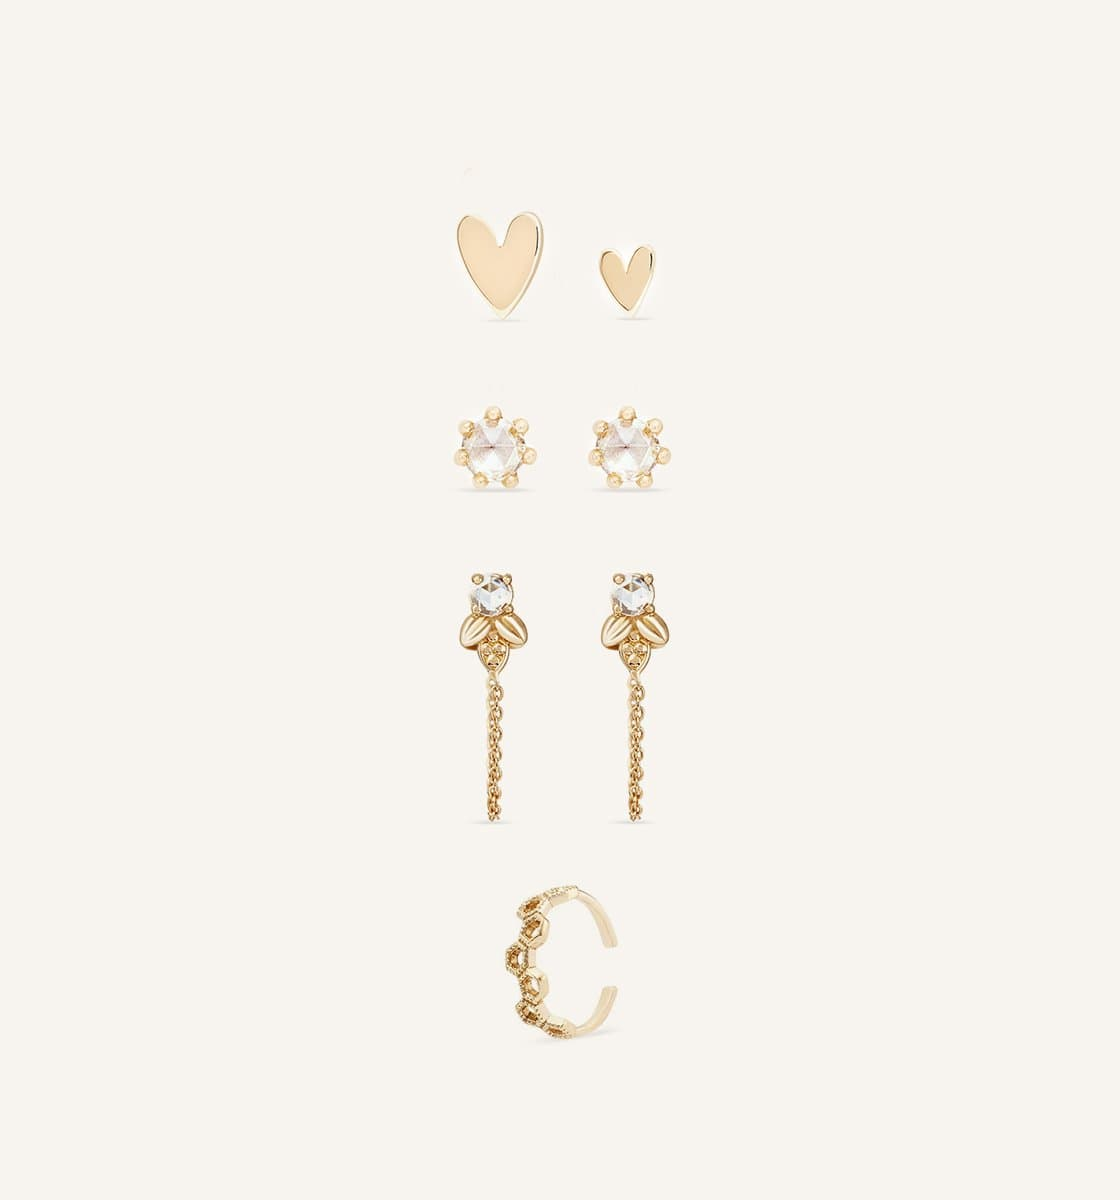
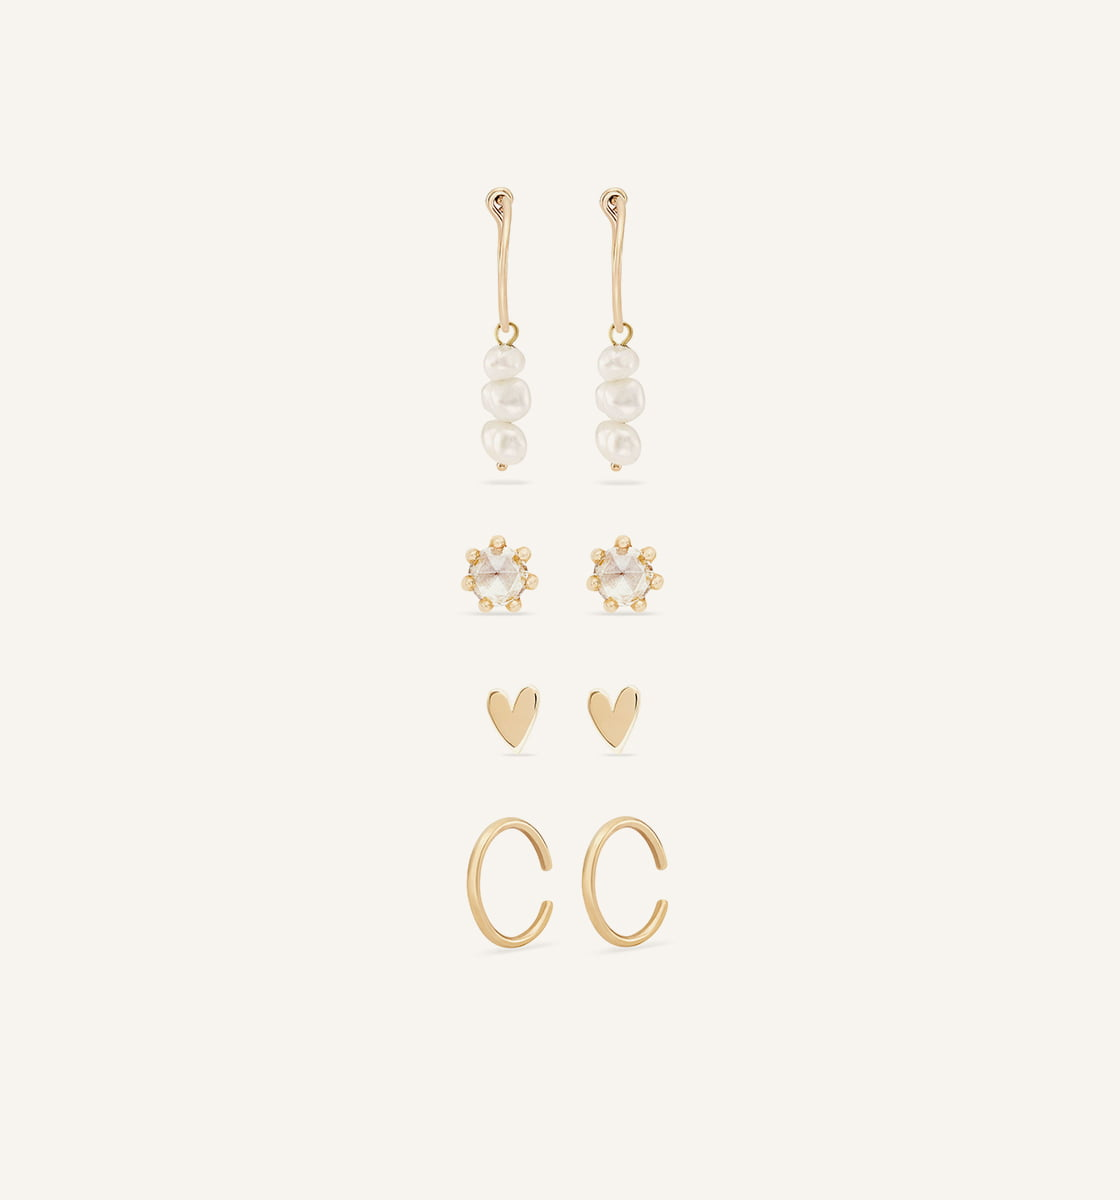
updates homepage images, adds product packaging to all product pages

Changed region(s): [[0.4062, 0.1542, 0.5938, 0.8633]]

diff --git a/src/components/BelovedLinks.js b/src/components/BelovedLinks.js
@@ -1,5 +1,5 @@
 import { graphql, Link, useStaticQuery } from 'gatsby'
-import { GatsbyImage } from "gatsby-plugin-image";
+import { GatsbyImage } from 'gatsby-plugin-image'
 import React from 'react'
 import { Box, Button, Flex, Grid, Heading } from 'theme-ui'
 
@@ -15,7 +15,7 @@ const BigLink = ({ fluid, title, buttonLabel, to, alt }) => (
     </Heading>
     <Grid>
       <Box sx={{ gridRow: '1 / -1', gridColumn: '1 / -1' }}>
-        <GatsbyImage image={fluid} alt="" />
+        <GatsbyImage image={fluid} alt={alt} />
       </Box>
       <Flex
         p={3}
@@ -36,19 +36,22 @@ const BigLink = ({ fluid, title, buttonLabel, to, alt }) => (
 )
 
 const BelovedLinks = () => {
-  const data = useStaticQuery(graphql`{
-  engagementImage: file(relativePath: {eq: "beloved/engagement-rings.jpg"}) {
-    childImageSharp {
-      gatsbyImageData(width: 800, layout: CONSTRAINED)
+  const data = useStaticQuery(graphql`
+    {
+      engagementImage: file(
+        relativePath: { eq: "beloved/engagement-rings.jpg" }
+      ) {
+        childImageSharp {
+          gatsbyImageData(width: 800, layout: CONSTRAINED)
+        }
+      }
+      weddingImage: file(relativePath: { eq: "beloved/wedding-bands.jpg" }) {
+        childImageSharp {
+          gatsbyImageData(width: 800, layout: CONSTRAINED)
+        }
+      }
     }
-  }
-  weddingImage: file(relativePath: {eq: "beloved/wedding-bands.jpg"}) {
-    childImageSharp {
-      gatsbyImageData(width: 800, layout: CONSTRAINED)
-    }
-  }
-}
-`)
+  `)
 
   return (
     <Box variant="sectionWrap">
@@ -63,21 +66,21 @@ const BelovedLinks = () => {
       >
         <BigLink
           title="ONE OF A KIND ENGAGEMENT RINGS"
-          to="/shop/wedding/engagement"
+          to="/collections/one-of-a-kind-engagement-rings"
           buttonLabel="Shop one of a king rings"
-          alt="embracing couple"
+          alt="couple and rings"
           fluid={data.engagementImage.childImageSharp.gatsbyImageData}
         />
         <BigLink
           title="Wedding Bands"
-          to="/shop/wedding/engagement"
+          to="/collections/wedding-bands"
           buttonLabel="Shop All Wedding Bands"
-          alt="embracing couple"
+          alt="woman smiling with rings"
           fluid={data.weddingImage.childImageSharp.gatsbyImageData}
         />
       </Grid>
     </Box>
-  );
+  )
 }
 
 export default BelovedLinks

diff --git a/src/components/product/ProductImageGallery.js b/src/components/product/ProductImageGallery.js
@@ -9,7 +9,7 @@ import { getShopifyImage } from '../../lib/get-shopify-image'
 const GalleryImage = ({ image }) => {
   const imageData = getShopifyImage({ image, width: 900 })
 
-  return <GatsbyImage image={imageData} alt={image.altText} />
+  return <GatsbyImage image={imageData} alt={image.altText || ''} />
 }
 
 const ProductImageGallery = ({ images }) => {
@@ -18,12 +18,33 @@ const ProductImageGallery = ({ images }) => {
     initialPage: 0,
   })
 
+  // add packaging images to all image galleries
+  const imagesWithPackaging = [
+    ...images,
+    {
+      originalSrc:
+        'https://cdn.shopify.com/s/files/1/0685/0359/files/packaging-4.jpg?v=1620925677',
+      height: 3000,
+      width: 3000,
+      altText: 'packaging',
+      id: 'packaging-id-17757575234566',
+    },
+    {
+      originalSrc:
+        'https://cdn.shopify.com/s/files/1/0685/0359/files/packaging-9.jpg?v=1620925676',
+      height: 3000,
+      width: 3000,
+      altText: 'packaging alternate',
+      id: 'packaging-alt-id-1234566',
+    },
+  ]
+
   return (
     <>
       <AnimatePresence>
         {isOpen && (
           <FullscreenGallery
-            images={images}
+            images={imagesWithPackaging}
             isOpen={isOpen}
             initialPage={initialPage}
             onClose={() => setGalleryState({ isOpen: false, initialPage: 0 })}
@@ -32,13 +53,13 @@ const ProductImageGallery = ({ images }) => {
       </AnimatePresence>
       <Box sx={{ display: ['block', 'none', 'none'], width: '100vw' }} mx={-5}>
         <MobileGallery
-          images={images}
+          images={imagesWithPackaging}
           onImageClick={i => setGalleryState({ isOpen: true, initialPage: i })}
         />
       </Box>
       <Flex>
         <Box sx={{ display: ['none', 'block', 'block'] }}>
-          {images.map((image, i) => (
+          {imagesWithPackaging.map((image, i) => (
             <Button
               type="button"
               variant="unset"

diff --git a/src/components/InstagramFeed.js b/src/components/InstagramFeed.js
@@ -9,8 +9,6 @@ const instagramURL =
 
 const InstagramFeed = () => {
   const { data, error } = useSWR(instagramURL, fetcher)
-  console.log(data)
-
   if (error) return null
 
   if (data) {
@@ -36,7 +34,11 @@ const InstagramFeed = () => {
           {data.slice(0, 12).map(post => {
             if (['CAROUSEL_ALBUM', 'IMAGE'].includes(post.media_type))
               return (
-                <Link href={post.permalink} target="_blank">
+                <Link
+                  href={post.permalink}
+                  target="_blank"
+                  key={`post-${post.permalink}-image`}
+                >
                   <AspectImage
                     key={post.media_url}
                     ratio={1}
@@ -47,7 +49,11 @@ const InstagramFeed = () => {
               )
             if (post.media_type === 'VIDEO')
               return (
-                <Link href={post.permalink} target="_blank">
+                <Link
+                  href={post.permalink}
+                  target="_blank"
+                  key={`post-${post.permalink}-image`}
+                >
                   <AspectImage
                     key={post.media_url}
                     as="video"

diff --git a/src/components/SearchProduct.js b/src/components/SearchProduct.js
@@ -1,10 +1,13 @@
 import React, { useContext } from 'react'
 import { CurrencyContext } from '../contexts/CurrencyContext'
+import { useProductTitle } from './ProductTitle'
 import ProductListItem from './product/ListItem'
 
 const SearchProduct = ({ product, images }) => {
   const { currencyCode } = useContext(CurrencyContext)
   const [firstImage, secondImage] = images
+
+  const title = useProductTitle(product.title)
 
   const hasRange = product.presentmentPriceRanges.edges.find(
     ({ node }) => node.maxVariantPrice.amount !== node.minVariantPrice.amount
@@ -16,7 +19,7 @@ const SearchProduct = ({ product, images }) => {
 
   return (
     <ProductListItem
-      title={product.title}
+      title={title}
       to={`/products/${product.handle}`}
       firstImage={firstImage}
       secondImage={secondImage}

diff --git a/src/components/Announcements.js b/src/components/Announcements.js
@@ -18,7 +18,7 @@ const Announcement = ({ text, to, isVisible }) =>
         variant="caps"
       >
         <Link
-          as={GatsbyLink}
+          as={to ? GatsbyLink : 'span'}
           color="inherit"
           to={to}
           sx={{ textDecoration: 'none' }}
@@ -31,8 +31,11 @@ const Announcement = ({ text, to, isVisible }) =>
 
 Announcement.propTypes = {
   text: PropTypes.string.isRequired,
-  to: PropTypes.string.isRequired,
+  to: PropTypes.string,
   isVisible: PropTypes.bool.isRequired,
+}
+Announcement.defaultProps = {
+  to: '',
 }
 
 const Announcements = () => {

diff --git a/src/components/CollectionSlider.js b/src/components/CollectionSlider.js
@@ -6,7 +6,7 @@ import { FiChevronLeft, FiChevronRight } from 'react-icons/fi'
 import CollectionSlide from './CollectionSlide'
 import { useSlider } from '../lib/useSliderConstraint'
 
-const AnimatedGrid = motion.custom(Grid)
+const AnimatedGrid = motion(Grid)
 
 const CollectionSlider = ({ title, subtitle, slides }) => {
   const ref = useRef(null)

diff --git a/src/components/seo.js b/src/components/seo.js
@@ -80,13 +80,14 @@ SEO.defaultProps = {
   lang: `en`,
   meta: [],
   description: ``,
+  title: '',
 }
 
 SEO.propTypes = {
   description: PropTypes.string,
   lang: PropTypes.string,
   meta: PropTypes.arrayOf(PropTypes.object),
-  title: PropTypes.string.isRequired,
+  title: PropTypes.string,
 }
 
 export default SEO

diff --git a/src/components/CollectionSlide.js b/src/components/CollectionSlide.js
@@ -10,7 +10,7 @@ const CollectionSlide = ({ title, to, buttonLabel, image }) => {
   return (
     <Box pr={4}>
       <Box as={Link} to={toPath}>
-        <GatsbyImage image={image} />
+        <GatsbyImage image={image} alt="" />
       </Box>
       <Text
         as="h4"
